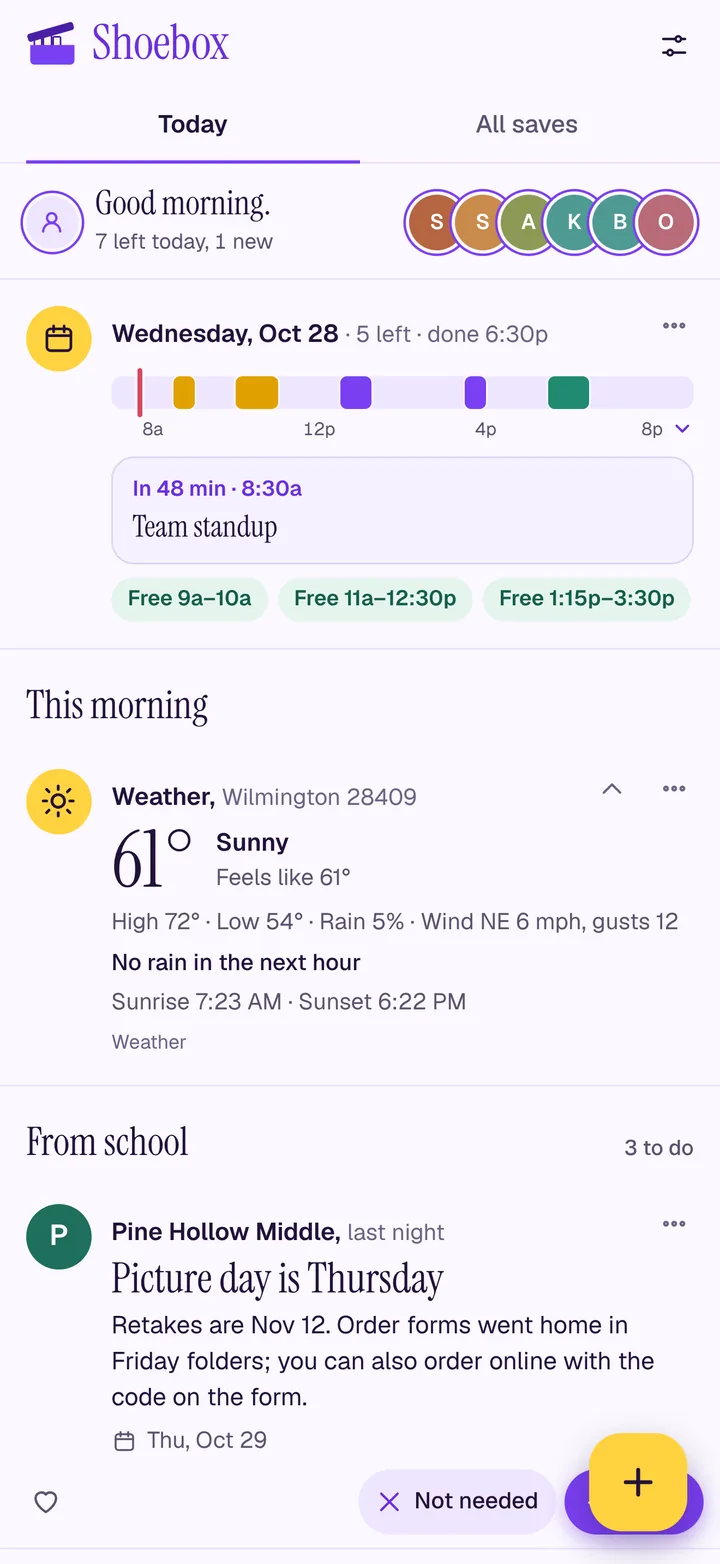
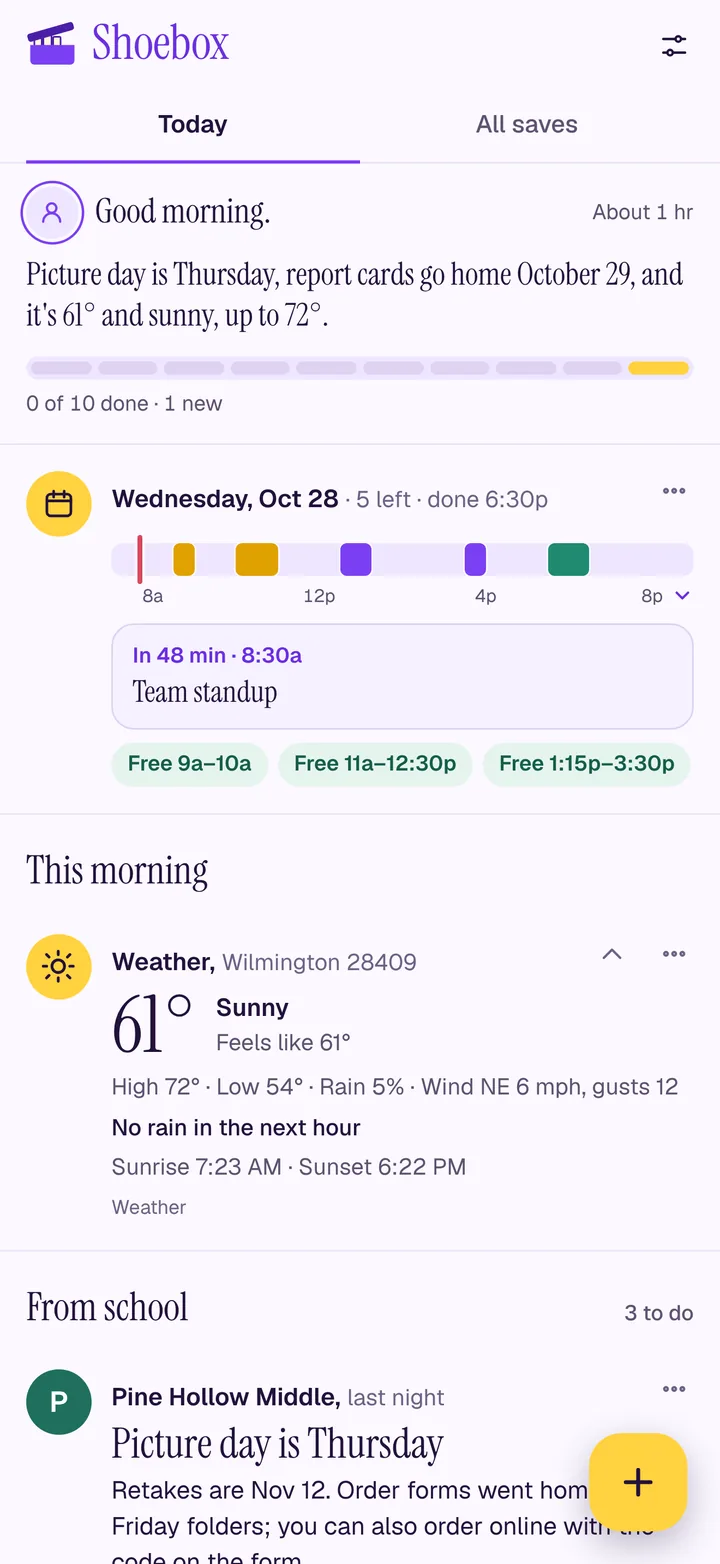
Today strip: a line about the day and a progress bar instead of circles
- One sentence on what matters today, soonest first: written by AI once a day (again when school posts or the calendar change), put together on the phone when AI is off
- AI sees school headlines with the child's name left out, the weather, and how many events are left and when the next starts; never event titles (privacy policy updated)
- A bar with a segment per post on Today (purple once settled, gold while new), x of y done, and about how long the rest takes
- Site screenshots and share image refreshed; 4.56.0

Claude-Session: https://claude.ai/code/session_01D8WFbH8fnDVbhMnpMquD13

diff --git a/src/app.js b/src/app.js
@@ -41,7 +41,7 @@ import { track, trackError, sendReport, statsOn, setStatsOn } from "./stats.js";
 import * as songs from "./songs.js";
 import { TOPICS, followTopics, followedTopics, withFollows, makeCoach, shareStep, pickTip, tipDone, mixStories, followOrder } from "./onboard.js";
 
-export const VERSION = "4.55.1";
+export const VERSION = "4.56.0";
 const APP = "Shoebox";
 const noteError = (e, opts = {}) => { trackError(opts.where || "other"); return logError(e, { ...opts, version: VERSION }); };
 
@@ -1102,7 +1102,7 @@ function render({ top = false } = {}) {
   bindTimeline(tl);
   tintVisible(tl);
   if (state.reveal) $("#panel", tl)?.classList.add("reveal");
-  requestAnimationFrame(() => { placeSpot(); coachPass(tl); tintSongCard(); });
+  requestAnimationFrame(() => { placeSpot(); coachPass(tl); tintSongCard(); refreshDayLine(); });
   updateWidget();
 }
 
@@ -2170,7 +2170,7 @@ const COACH = [
   { key: "dbl", sel: "[data-dbl]", text: "Double-tap a photo to love it." },
   { key: "stories", sel: ".post .av-sb", host: ".post", text: "Top stories come from the topics you follow. Tap Not for me and say why, and tomorrow's picks change." },
   { key: "daybar", sel: ".daybar details.db", text: "This is a view of your schedule today. Tap the bar to see each event, and online meetings get a Join button." },
-  { key: "song", sel: ".post.song .song", host: ".post", text: "A song from your music you haven't played in a while. Open it in Apple Music, and Shoebox asks later how it landed." },
+  { key: "song", sel: ".post.song .disc", host: ".post", text: "A song from your music you haven't played in a while. Open it in Apple Music, and Shoebox asks later how it landed." },
   { key: "more", sel: ".daily .more[data-panel], .daybar .more[data-panel]", text: "Tap ••• on any card to change it right where you see it." },
 ];
 const inView = (el) => { const r = el.getBoundingClientRect(); return r.height > 0 && r.top >= 70 && r.bottom <= innerHeight - 90; };
@@ -2704,30 +2704,77 @@ async function refreshCalendar(opts) {
 }
 
 /*
- * The Today strip, at the top of Today: a greeting, what's left, and a
- * circle for each of today's six. A circle fills with a check once that
- * post has its verdict; tap one to jump to its post. Cleared, it becomes
- * a gold badge.
+ * The Today strip, at the top of Today: a greeting, a sentence on what matters today, a bar with a
+ * segment per post (purple once settled, gold while new), what's done and about how long the rest takes.
  */
 function stripHtml(s) {
-  const all = [...s.fresh, ...s.six];
+  const all = [...s.school, ...s.fresh, ...s.six];
   if (!all.length) return "";
-  const left = all.filter(isOpen).length;
+  const open = all.filter(isOpen), done = all.length - open.length, fresh = s.fresh.filter(isOpen).length;
   const h = new Date().getHours();
   const hello = h < 5 ? "Good evening" : h < 12 ? "Good morning" : h < 17 ? "Good afternoon" : "Good evening";
-  const status = !left ? "Today is cleared" : `${left} left today${s.fresh.filter(isOpen).length ? `, ${s.fresh.filter(isOpen).length} new` : ""}`;
-  const dots = s.six.map((i) => {
-    const done = !isOpen(i);
-    const pic = pictureOf(i);
-    const face = pic && pic.blobId ? `<img alt=""${focusAttr(i, pic)} data-blob="${esc(pic.blobId)}">`
-      : pic && pic.src ? `<img alt=""${focusAttr(i, pic)} src="${esc(pic.src)}" referrerpolicy="no-referrer" onerror="this.remove()">`
-      : `<span class="dot-l" style="--c:${topicColor(i)}">${esc(firstWords(headline(i), 1).charAt(0).toUpperCase() || "•")}</span>`;
-    return `<button class="dot${done ? " done" : ""}" type="button" data-jump="${esc(i.id)}" aria-label="${esc(firstWords(headline(i), 8))}${done ? ", done" : ""}">${face}${done ? `<span class="tick" aria-hidden="true">${I.done}</span>` : ""}</button>`;
-  }).join("");
+  const mins = open.reduce((n, i) => n + Math.min(Math.max(+i.minutes || 3, 1), 30), 0);
+  const status = !open.length ? "Today is cleared" : `${done} of ${all.length} done${fresh ? ` · ${fresh} new` : ""}`;
+  const order = [...all.filter((i) => !isOpen(i)), ...open.filter((i) => !s.fresh.includes(i)), ...open.filter((i) => s.fresh.includes(i))];
+  const segs = order.slice(0, 14).map((i) => `<i class="${!isOpen(i) ? "on" : s.fresh.includes(i) ? "new" : ""}"></i>`).join("");
+  const line = dayLineText();
   return `<section class="strip" aria-label="Today">
-    <div class="hello">${avatarHtml("sm")}<div><p class="hi">${hello}.</p><p class="left" id="count" aria-live="polite">${esc(status)}</p></div></div>
-    ${left || !s.six.length ? `<div class="dots" role="group" aria-label="Today's six">${dots}</div>` : `<span class="cleared">${I.done}<span>Cleared</span></span>`}
+    <div class="hello">${avatarHtml("sm")}<p class="hi">${hello}.</p>
+      ${open.length ? `<span class="mins">About ${mins < 60 ? `${Math.max(5, Math.round(mins / 5) * 5)} min` : `${Math.round(mins / 30) / 2} hr`}</span>` : `<span class="cleared">${I.done}<span>Cleared</span></span>`}</div>
+    ${line ? `<p class="brief" id="day-line">${esc(line)}</p>` : `<p class="brief" id="day-line" hidden></p>`}
+    <div class="seg" role="img" aria-label="${esc(status)}">${segs}</div>
+    <p class="left" id="count" aria-live="polite">${esc(status)}</p>
   </section>`;
+}
+
+/*
+ * The day line. With AI on, one sentence written once a day (again when school posts or the
+ * calendar change); otherwise, or until it arrives, one put together here from the same facts.
+ */
+const DAY_LINE = "edition.dayLine";
+function dayFacts() {
+  const c = morningCache(), w = c.weather, sc = schoolSettings(), kids = childNames(sc);
+  const now = Date.now(), facts = [`Today is ${new Date().toLocaleDateString("en-US", { weekday: "long" })}.`];
+  const weekday = (d) => { const t = fromDateInput(d); return t ? new Date(t).toLocaleDateString("en-US", { weekday: "long" }) : ""; };
+  const school = state.items.filter((i) => i.school && isOpen(i) && schoolToday([i]).length)
+    .sort((a, b) => (a.school.date || "9999").localeCompare(b.school.date || "9999")).slice(0, 4);
+  for (const i of school) facts.push(`School: ${ai.maskNames(i.title, kids, ai.CHILD_TOKEN)}${i.school.date ? ` (${weekday(i.school.date)})` : ""}`);
+  const cal = calCache(), hidden = new Set(calHidden());
+  const evs = (cal?.events || []).filter((e) => !e.allDay && !hidden.has(calName(e.calendar, "Calendar")) && (e.end || e.start) > now).sort((a, b) => a.start - b.start);
+  if (evs.length) facts.push(`Calendar: ${evs.length} more event${evs.length === 1 ? "" : "s"} today, the next at ${shortClock(evs[0].start)}.`);
+  if (w) facts.push(`Weather${c.weatherFor ? ` in ${c.weatherFor}` : ""}: ${w.now}° now, ${String(w.word || "").toLowerCase()}, high ${w.hi}°${w.rain != null ? `, ${w.rain}% chance of rain` : ""}.${w.nextHour ? ` ${w.nextHour}.` : ""}`);
+  const key = `${dayKey()}|${school.map((i) => i.id).join(",")}|${evs.length}|${w ? 1 : 0}`;
+  return { facts, key, school, kids, w, evs };
+}
+function dayLineLocal({ school, kids, w }) {
+  const parts = school.slice(0, 2).map((i, k) => { const t = ai.nameIn(ai.maskNames(i.title, kids, ai.CHILD_TOKEN), kids[0] || ""); return k && /^[A-Z][a-z]/.test(t) && !kids.some((n) => t.startsWith(n)) ? t.charAt(0).toLowerCase() + t.slice(1) : t; });
+  if (w) parts.push(`it's ${w.now}° and ${String(w.word || "").toLowerCase()}${w.hi != null ? `, up to ${w.hi}°` : ""}`);
+  if (!parts.length) return "";
+  const line = parts.length > 1 ? `${parts.slice(0, -1).join(", ")}, and ${parts[parts.length - 1]}.` : `${parts[0]}.`;
+  return line.charAt(0).toUpperCase() + line.slice(1);
+}
+function dayLineText() {
+  const f = dayFacts();
+  try { const saved = JSON.parse(localStorage.getItem(DAY_LINE) || "null"); if (saved?.key === f.key && saved.text) return saved.text; } catch { /* none yet */ }
+  return dayLineLocal(f);
+}
+let dayLineBusy = false;
+async function refreshDayLine() {
+  if (dayLineBusy || state.tab !== "today" || !ai.settings.enabled() || !navigator.onLine) return;
+  const f = dayFacts();
+  if (f.facts.length < 2) return;
+  try { const saved = JSON.parse(localStorage.getItem(DAY_LINE) || "null"); if (saved?.key === f.key) return; } catch { /* write a new one */ }
+  dayLineBusy = true;
+  try {
+    const text = ai.nameIn(await ai.dayLine(f.facts), f.kids[0] || "");
+    localStorage.setItem(DAY_LINE, JSON.stringify({ key: f.key, text, at: Date.now() }));
+    const el = $("#day-line");
+    if (el) { el.textContent = text; el.hidden = false; }
+  } catch (e) {
+    // Try again with the next change rather than every render.
+    try { localStorage.setItem(DAY_LINE, JSON.stringify({ key: f.key, text: "", at: Date.now() })); } catch { /* full */ }
+    noteError(e, { quiet: true, where: "day line" });
+  } finally { dayLineBusy = false; }
 }
 
 /** The end of Today: what's left, or the finish moment once it's all cleared. */

diff --git a/styles.css b/styles.css
@@ -260,21 +260,18 @@ a { color: inherit; text-decoration: none; }
 .tab { flex: 1; min-height: 44px; font-weight: 500; color: var(--muted); border-bottom: 2px solid transparent; margin-bottom: -1px; }
 .tab[aria-selected="true"] { color: var(--fg); border-bottom-color: var(--sig); font-weight: 600; }
 
-/* The Today strip: greeting, what's left, and a circle per item in today's six. */
-.strip { display: flex; align-items: center; gap: 12px; padding: 14px var(--gutter-r) 12px var(--gutter-l); border-bottom: 1px solid var(--line); }
-.hello { display: flex; align-items: center; gap: 10px; flex: 1; min-width: 0; }
+/* The Today strip: greeting, the day line, a segment per post, what's done. */
+.strip { padding: 14px var(--gutter-r) 14px var(--gutter-l); border-bottom: 1px solid var(--line); }
+.hello { display: flex; align-items: center; gap: 10px; min-width: 0; }
 .hi { margin: 0; font: 400 1.3rem/1.1 var(--serif); }
-.strip .left { margin: 2px 0 0; font-size: 0.8125rem; color: var(--muted); font-variant-numeric: tabular-nums; }
-.dots { display: flex; gap: 0; flex: none; }
-.dot { position: relative; width: 34px; height: 34px; margin-left: -6px; border-radius: 50%; overflow: hidden; background: var(--soft); box-shadow: 0 0 0 2px var(--bg), 0 0 0 3.5px var(--sig); }
-.dot:first-child { margin-left: 0; }
-.dot::before { content: ""; position: absolute; inset: -5px; } /* a 44px target around the 34px circle */
-.dot img, .dot-l { width: 100%; height: 100%; object-fit: cover; display: grid; place-items: center; }
-.dot-l { background: var(--c, var(--sig)); color: #fff; font: 600 0.8125rem var(--sans); }
-.dot.done { box-shadow: 0 0 0 2px var(--bg), 0 0 0 3.5px var(--gold); }
-.dot.done img, .dot.done .dot-l { opacity: 0.35; }
-.dot .tick { position: absolute; inset: 0; display: grid; place-items: center; color: var(--fg); }
-.dot .tick .i { width: 18px; height: 18px; stroke-width: 2.6; }
+.strip .mins { margin-left: auto; font-size: 0.8125rem; color: var(--muted); font-variant-numeric: tabular-nums; white-space: nowrap; }
+.strip .cleared { margin-left: auto; }
+.strip .brief { margin: 10px 0 0; font: 400 1.2rem/1.3 var(--serif); color: var(--fg); text-wrap: pretty; }
+.strip .seg { display: flex; gap: 4px; margin-top: 12px; }
+.strip .seg i { flex: 1; height: 8px; border-radius: 4px; background: var(--line-2); transition: background .3s ease; }
+.strip .seg i.on { background: var(--sig); }
+.strip .seg i.new { background: var(--gold); }
+.strip .left { margin: 6px 0 0; font-size: 0.8125rem; color: var(--muted); font-variant-numeric: tabular-nums; }
 .cleared { display: inline-flex; align-items: center; gap: 6px; padding: 8px 14px; border-radius: 999px; background: var(--gold); color: var(--on-gold); font-weight: 600; font-size: 0.875rem; }
 .cleared .i { width: 16px; height: 16px; stroke-width: 2.4; }
 

diff --git a/privacy.html b/privacy.html
@@ -23,7 +23,7 @@
 <p>Your saved links, notes, photos, files, tags, settings and reading history are stored on your device. Deleting the app deletes them. Backups you export are files you control.</p>
 <h2>What leaves your phone, and why</h2>
 <ul>
-<li><b>AI (only if you turn it on).</b> To read, tag and rank what you save, find pictures and turn newsletters into posts, Shoebox sends the text of the item, your notes on it and any photo you add to Anthropic's Claude, through Shoebox's server. Anthropic does not use this data to train its models. Shoebox's server passes it through and does not keep it. The server keeps a random install number, a fingerprint of its access code and a daily count of AI use, to keep costs in check.</li>
+<li><b>AI (only if you turn it on).</b> To read, tag and rank what you save, find pictures and turn newsletters into posts, Shoebox sends the text of the item, your notes on it and any photo you add to Anthropic's Claude, through Shoebox's server. Anthropic does not use this data to train its models. For the one-line summary at the top of Today, AI sees your school post headlines (with your child's name left out), the weather, and how many calendar events are left and when the next starts, never their titles. Shoebox's server passes it through and does not keep it. The server keeps a random install number, a fingerprint of its access code and a daily count of AI use, to keep costs in check.</li>
 <li><b>Link previews.</b> When you save a link, Shoebox's server fetches that page to read its title, summary and pictures. The page address is not kept.</li>
 <li><b>Calendar.</b> In the iPhone app, your calendars are read on your phone and never leave it. If you add a calendar address instead, it passes through Shoebox's server to be read. It is not kept.</li>
 <li><b>Location (only if you choose "Use my location").</b> Your rough location is used to get your weather from Apple Weather, Open-Meteo and the National Weather Service. It is not kept.</li>

diff --git a/src/ai.js b/src/ai.js
@@ -893,6 +893,26 @@ function cleanQuestions(out, count) {
 }
 
 /** Exam questions need to be right more than they need to be cheap. */
+/**
+ * One sentence for the top of Today: what matters most, soonest first. It sees only the facts given:
+ * calendar counts and times (never event titles, which stay on the phone), the weather, and school
+ * headlines with the child's name written {child}.
+ */
+export async function dayLine(facts) {
+  const prompt = [
+    "Write one sentence, at most 130 characters, telling someone what matters most today, the most time-sensitive thing first.",
+    "Use only the facts below. Use weekday names, not dates. Plain and warm. No greeting, no exclamation marks, no emoji, no advice, no questions.",
+    `Keep ${CHILD_TOKEN} exactly as written wherever it appears.`,
+    "",
+    ...facts,
+    "",
+    "Reply with the sentence only.",
+  ].join("\n");
+  const out = textOf(await call({ content: prompt, maxTokens: 120 })).trim().split("\n")[0].replace(/^["'\u201c]+|["'\u201d]+$/g, "");
+  if (!out) throw new AiError("No line came back.");
+  return out.slice(0, 180);
+}
+
 export const QUIZ_MODEL = "claude-sonnet-5-5";
 
 export const CPMAI_TOPICS = [

diff --git a/sw.js b/sw.js
@@ -4,7 +4,7 @@
  * Bump VERSION with each release so phones pick up the new shell.
  */
 
-const VERSION = "4.55.1";
+const VERSION = "4.56.0";
 const CACHE = `edition-${VERSION}`;
 const SHELL = [
   "./",
